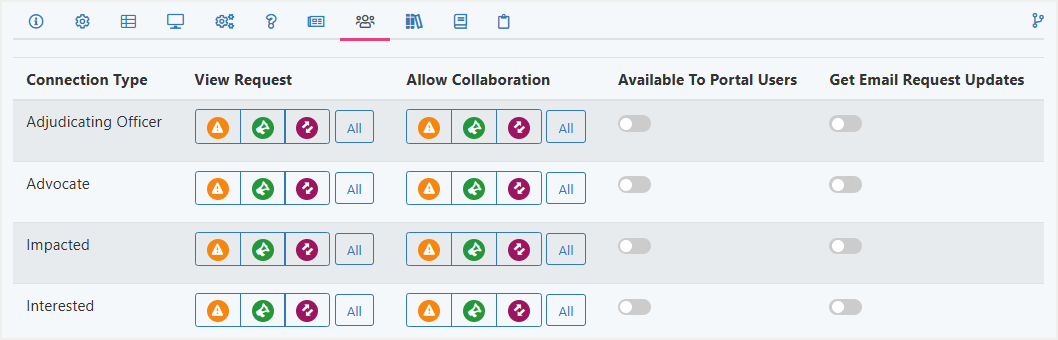
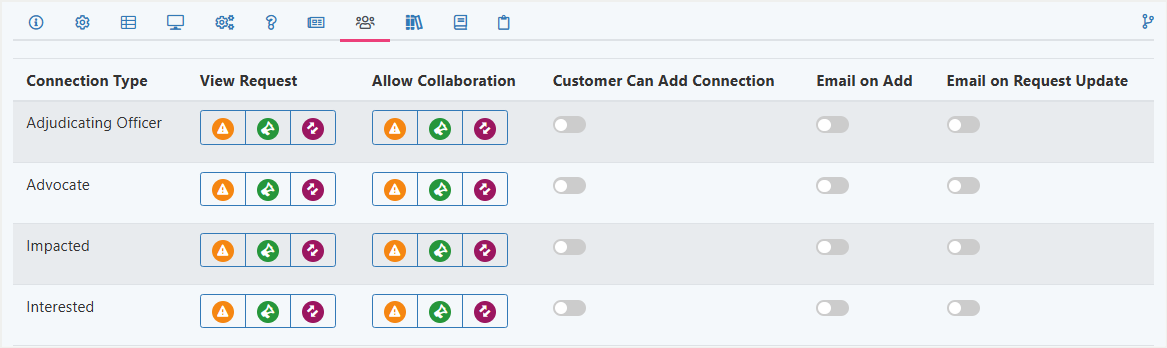
Connections Improvements (CH00189413)
* New image
* Added several new links
* New descriptions for email communications
* Grammar and spelling check
* Improved wording

diff --git a/servicemanager-user-guide/service-portfolio/services/service-connections.md b/servicemanager-user-guide/service-portfolio/services/service-connections.md
@@ -1,5 +1,5 @@
 # Connections configuration
-A Request in Service Manager is generally provided to support or fulfill a request for an individual. However, there are times when other people might have a connection to a particular request. For example, an incident may have been raised for an individual, but others users might be impacted by this same incident. These additional people can be added as connections.
+A request in Service Manager is generally provided to support or fulfill a request for an individual. However, there are times when other people might have a connection to a particular request. For example, an incident may have been raised for an individual, but other users might be impacted by this same incident. These additional people can be added as connections.
 
 This document covers how to set up connections for each service.
 
@@ -12,10 +12,10 @@ This document covers how to set up connections for each service.
 * Read about the [Connections Intelligent Capture form](/servicemanager-config/customize/service-manager-capture-forms#connections).
 
 ## Connection Types
-Connection types are a key part to controlling what a connected user can see or do on a request that they are connected to. By default, all visibility options are disabled for each connection type.
+Connection types are a key part of controlling what a connected user can see or do on a request that they are connected to. By default, all visibility options are disabled for each connection type.
 
 :::info
-The connection types are defined in a [Simple List](/servicemanager-config/setup/service-manager-simple-lists) called `requestConnectionType`. The entire list of connection types defined in the simple list will be dispayed in the service connections configuration.
+The connection types are defined in a [Simple List](/servicemanager-config/setup/service-manager-simple-lists) called `requestConnectionType`. The entire list of connection types defined in the simple list will be displayed in the service connections configuration.
 :::
 
 When adding a connection to a request, a connection type must be selected.  The selected connection type will determine what access is provided to the connected user.
@@ -28,7 +28,7 @@ Connections will have the following levels of access on these requests:
 * View the Business Process Tracker (Head's Up Display).
 * View the questions section of the request.
 * View who else is a connection to the request.
-* The connected users will not be able to interact with the request, add updates or comments, add / view attachments, resolve, cancel or provide feedback on closure of the request.
+* The connected users will not be able to interact with the request, add updates or comments, add/view attachments, resolve, cancel or provide feedback on the closure of the request.
 
 :::tip
 In order for Connections to view and download attachments, the setting `guest.servicemanager.portal.request.canConnectionsViewAttachments` needs to be enabled.
@@ -37,41 +37,42 @@ In order for Connections to view and download attachments, the setting `guest.se
 #### Allow Collaboration
 If you allow collaboration on any of the available request types, the connections added using this connection type will have all the View Requests visibility options plus the following:
 
-* View the request's Timeline and see any update that is marked as visibile to the customer.
-* Have the ability to add comments to any customer facing updates in the request timeline.
+* View the request's Timeline and see any updates that are marked as visible to the customer.
+* Have the ability to add comments to any customer-facing updates in the request timeline.
 * Have the ability to add new updates to the request.
-* The connected users will NOT be able to add attachments, resolve, cancel or provide feedback on closure of the request.
+* The connected users will NOT be able to add attachments, resolve, cancel or provide feedback on the closure of the request.
 
 :::info
 To collaborate on a request the connection must also have view access.  When selecting a request type under collaboration, if the View Request is not enabled for that request type, it will be automatically enabled.
 :::
 
-#### Available to portal users
-When at least one connection type has the `Available to portal users` enabled, the customer of the request then has the ability to add connections to the request. Only the connection types that have this enable will be available to the customer to select from. 
+#### Customer Can Add Connection
+When at least one connection type has the `Customer Can Add Connection` enabled, the customer of the request can add connections to the request. Only the connection types that have this enabled will be available to the customer to select from. 
 
 ![Available to Portal User](/_books/servicemanager-user-guide/images/service-connections-portal-access.png)
 
-#### Get Email Request Updates
-This option enables two types of email notification.
-* Notify the connected user that they have been added as a connection.
-* Notify the connected user when there has been a customer facing update to the request and the Notify Customer option has been enabled.
+#### Email on Add
+* Notify the connected user that they have been added as a connection
+
+#### Email on Request Update
+* Notify the connected user when there has been a customer-facing update to the request.  The [Notify Customer](/servicemanager-user-guide/service-portfolio/requests/update-action#customer-email-notifications) option needs to be enabled for this to work.
 
 ## Where can connections view requests?
 Anyone added as a connection can view the request on the Employee Portal, provided that visibility has been set to allow access.  
 
 :::note
-While contacts from external organization can be connected to a request, the Customer Portal does not provide visibility of these requests.
+While contacts from external organizations can be connected to a request, the Customer Portal does not provide visibility of these requests.
 :::
 
-A connected user will see a new menu option in their list of requests, called Connections
+A connected user will see a new menu option in their list of requests, called Connections.
 
-* A new Connection Type Filter will allow the user to filter the requests they are connected to via the available connection types
-Communication with request connections (emails) are managed via business process automation and or via the email action option on the request views.
+* A new Connection Type Filter will allow the user to filter the requests they are connected to via the available connection types.
+* Email communication with request connections can added using the [Request Connections Automation](/servicemanager-config/customize/workflows/request-connections-automation) in a workflow or from the [email action](/servicemanager-user-guide/service-portfolio/requests/email-action) option on the requests.
 
 ## Remove connection
 Connections will have an option via the Connections section on the request to remove themselves from being a connection to the request.
 
-If a connection removes themselves as a connection to a request, they will no longer have rights to view the request.
+If a connection removes themselves as a connection to a request, they will no longer have the ability to view the request.
 
 ## Connection comparison
 
